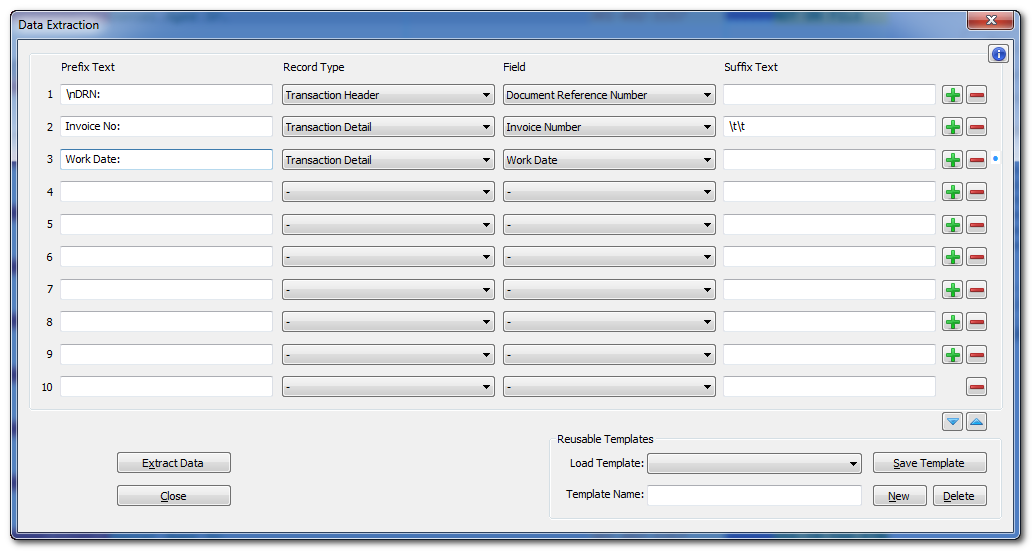
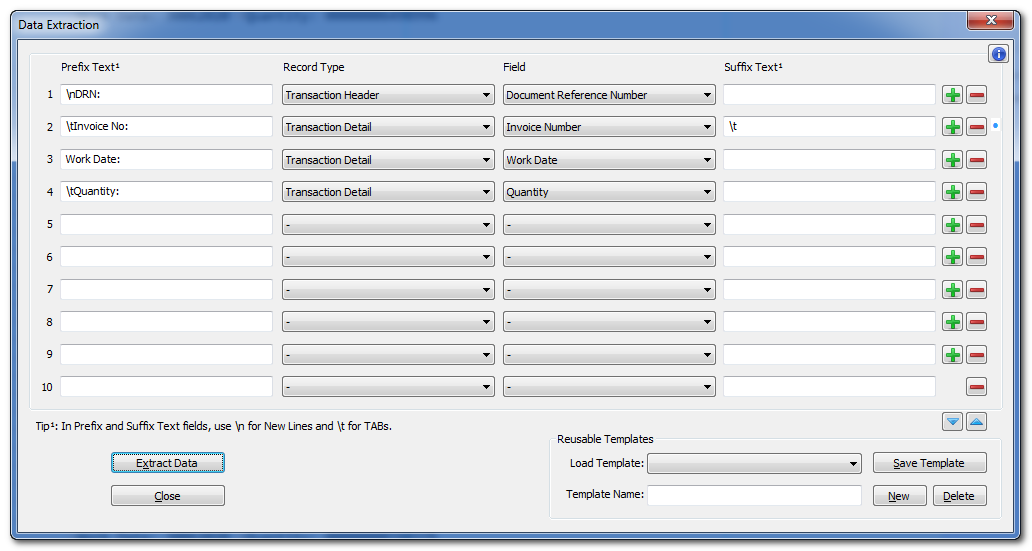
Added tip for new line & tab usage in Prefix & Suffix Texts.

diff --git a/src/Dialogs/DataExtractDialog.cpp b/src/Dialogs/DataExtractDialog.cpp
@@ -30,6 +30,8 @@ void DataExtractDialog::doDialog(HINSTANCE hInst) {
    Utils::loadBitmap(_hSelf, IDC_DAT_EXT_INFO_BUTTON, IDB_VIZ_INFO_BITMAP);
    Utils::addTooltip(_hSelf, IDC_DAT_EXT_INFO_BUTTON, NULL, VIZ_PANEL_INFO_TIP, FALSE);
 
+   //Utils::setFontItalic(_hSelf, IDC_DAT_EXT_NEW_LINE_TAB_TIP);
+
    if (_gLanguage != LANG_ENGLISH) localize();
    goToCenter();
 
@@ -192,6 +194,7 @@ void DataExtractDialog::localize() {
    SetDlgItemText(_hSelf, IDC_DAT_EXT_RECORD_LABEL, DATA_EXTRACT_RECORD_LABEL);
    SetDlgItemText(_hSelf, IDC_DAT_EXT_FIELD_LABEL, DATA_EXTRACT_FIELD_LABEL);
    SetDlgItemText(_hSelf, IDC_DAT_EXT_SUFFIX_LABEL, DATA_EXTRACT_SUFFIX_LABEL);
+   SetDlgItemText(_hSelf, IDC_DAT_EXT_NEW_LINE_TAB_TIP, DATA_EXTRACT_NEW_LINE_TAB);
    SetDlgItemText(_hSelf, IDC_DAT_EXT_EXTRACT_BTN, DATA_EXTRACT_EXTRACT_BTN);
    SetDlgItemText(_hSelf, IDCLOSE, DATA_EXTRACT_CLOSE_BTN);
    SetDlgItemText(_hSelf, IDC_DAT_EXT_TEMPLATE_GROUP, DATA_EXTRACT_TEMPLATE_GROUP);
@@ -238,10 +241,10 @@ void DataExtractDialog::initLineItemFieldList(int line) {
 void DataExtractDialog::moveIndicators(int line, bool focusPrefix) {
    currentLineItem = line;
 
-   RECT rectLine;
-   GetWindowRect(GetDlgItem(_hSelf, IDC_DAT_EXT_ITEM_DEL_BTN_01 + line), &rectLine);
+   RECT rc;
+   GetWindowRect(GetDlgItem(_hSelf, IDC_DAT_EXT_ITEM_DEL_BTN_01 + line), &rc);
 
-   POINT newPos{ rectLine.right + 2, rectLine.top + 2 };
+   POINT newPos{ rc.right + 2, rc.top + 2 };
    ScreenToClient(_hSelf, &newPos);
 
    SetWindowPos(hIndicator, HWND_TOP, newPos.x, newPos.y, NULL, NULL, SWP_NOSIZE | SWP_NOOWNERZORDER);

diff --git a/src/Resources/resource.h b/src/Resources/resource.h
@@ -1686,14 +1686,15 @@
 #define IDC_JUMP_FIELD_GO_BTN           9423
 #define IDD_DATA_EXTRACT_DIALOG         9500
 #define IDC_DAT_EXT_INFO_BUTTON         9501
-#define IDC_DAT_EXT_PREFIX_LABEL        9511
-#define IDC_DAT_EXT_RECORD_LABEL        9512
-#define IDC_DAT_EXT_FIELD_LABEL         9513
-#define IDC_DAT_EXT_SUFFIX_LABEL        9514
-#define IDC_DAT_EXT_DOWN_BUTTON         9515
-#define IDC_DAT_EXT_UP_BUTTON           9516
-#define IDC_DAT_EXT_EXTRACT_BTN         9517
-#define IDC_DAT_EXT_CURRENT_LINE        9518
+#define IDC_DAT_EXT_PREFIX_LABEL        9502
+#define IDC_DAT_EXT_RECORD_LABEL        9503
+#define IDC_DAT_EXT_FIELD_LABEL         9504
+#define IDC_DAT_EXT_SUFFIX_LABEL        9505
+#define IDC_DAT_EXT_DOWN_BUTTON         9506
+#define IDC_DAT_EXT_UP_BUTTON           9507
+#define IDC_DAT_EXT_EXTRACT_BTN         9508
+#define IDC_DAT_EXT_CURRENT_LINE        9509
+#define IDC_DAT_EXT_NEW_LINE_TAB_TIP    9510
 #define IDC_DAT_EXT_ITEM_SEQ_01         9521
 #define IDC_DAT_EXT_ITEM_SEQ_02         9522
 #define IDC_DAT_EXT_ITEM_SEQ_03         9523

diff --git a/docs/data_extract_dialog.md b/docs/data_extract_dialog.md
@@ -6,4 +6,8 @@ The field data can be optionally prefixed and suffixed by text labels, separator
 
 The data extraction feature can be especially useful with mixed-record fixed-width data files wherein column mode selection of field data is not possible.
 
+#### Sample Extraction Input
 ![FileType_Extract](https://raw.githubusercontent.com/shriprem/FWDataViz/DataExtractFeature/images/data_extract_dialog.png)
+
+#### Corresponding Output
+![FileType_Extract](https://raw.githubusercontent.com/shriprem/FWDataViz/DataExtractFeature/images/data_extract_output.png)
